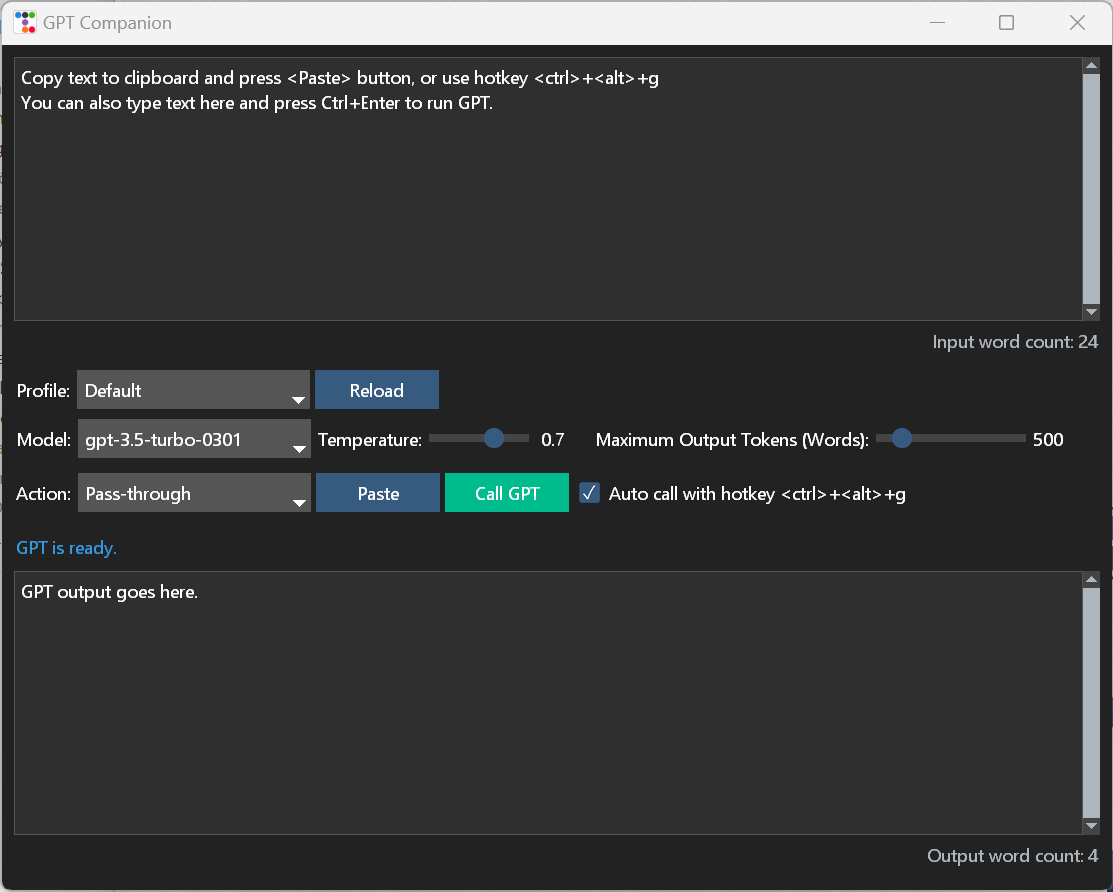
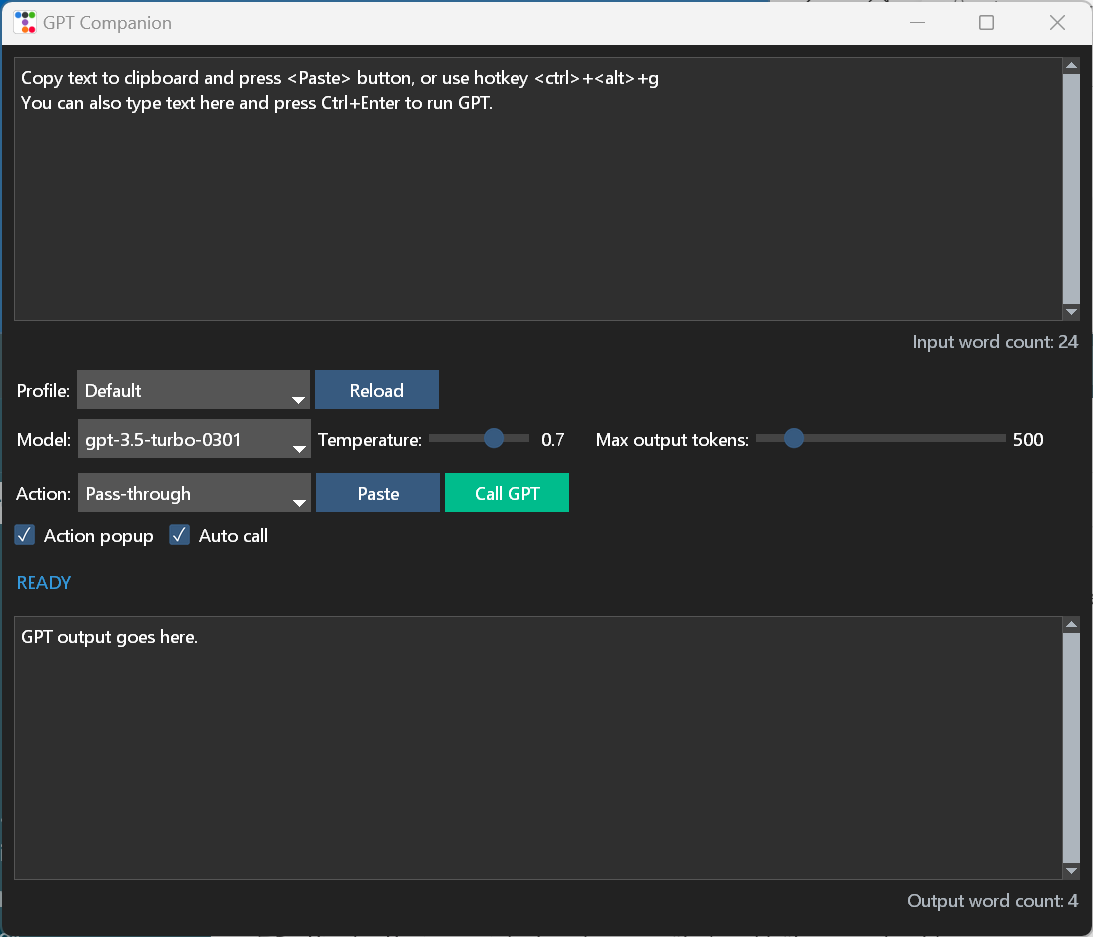
config reorganized, new: popup menu checkbox

diff --git a/main.py b/main.py
@@ -13,7 +13,7 @@ GPT_RUNNING = 'RUNNING'
 mouse_pos = ()
 
 
-def change_profile(e):
+def change_profile(unused):
     menu_actions.delete(0, len(config.action_choices()) + 1)
     config.select(cbb_profiles.get())
     build_action_menu(menu_actions)
@@ -21,6 +21,10 @@ def change_profile(e):
     cbb_models.set(config.all_models()[0])
     cbb_actions.configure(values=config.action_choices())
     v_action.set(config.action_first())
+    v_temperature.set(config.temperature())
+    v_autocall.set(config.autocall())
+    v_use_popup.set(config.action_popup())
+    v_max_tokens.set(config.max_tokens())
 
 
 def replace_text(widget, text):
@@ -144,8 +148,8 @@ def mouse_moved(x, y):
     mouse_pos = (int(x), int(y))
 
 
-def hotkey_pressed():
-    if config.action_popup():
+def action():
+    if v_use_popup.get():
         pop_action_menu()
     else:
         paste_and_complete()
@@ -165,13 +169,13 @@ def bind_keyboard_and_mouse():
 
     # Popups don't go well with pynput HotKey because they snatch all the key releases.
     # This messes up the internal state management of the HotKey instance. We help him by releasing the keys.
-    def activate():
-        for k in pk:
+    def action_menu():
+        for k in hotkey_parsed:
             release(k)
-        pop_action_menu()
+        action()
 
-    pk = pynput.keyboard.HotKey.parse(config.hotkey())
-    hotkey = pynput.keyboard.HotKey(pk, activate)
+    hotkey_parsed = pynput.keyboard.HotKey.parse(config.hotkey())
+    hotkey = pynput.keyboard.HotKey(hotkey_parsed, action_menu)
     klistener = pynput.keyboard.Listener(on_press=press, on_release=release)
     klistener.start()
 
@@ -193,7 +197,7 @@ def create_wordcount_label(parent, text):
 
 
 root = ttk.Window(themename='darkly')
-if config.startup()['on_top']:
+if config.on_top():
     root.attributes('-topmost', 1)
 root.title('GPT Companion')
 root.columnconfigure(0, weight=1)
@@ -250,16 +254,25 @@ v_action = tk.StringVar()
 cbb_actions = ttk.Combobox(actionbox, values=config.action_choices(), textvariable=v_action)
 cbb_actions.state(['readonly'])
 cbb_actions.set(config.action_first())
+# actionbox layout
+lbl_action.grid(row=0, column=0, sticky='w')
+cbb_actions.grid(row=0, column=1, sticky='e', padx=5, pady=5)
+btn_paste.grid(row=0, column=2)
+btn_gpt.grid(row=0, column=3, padx=5, pady=5)
+
+# option box
+optionbox = ttk.Frame(frame)
 # hotkey autocall option
 v_autocall = tk.IntVar()
 v_autocall.set(config.autocall())
-btn_autocall = ttk.Checkbutton(actionbox, variable=v_autocall, text='Auto call with hotkey ' + config.hotkey())
-# actionbox layout
-lbl_action.grid(row=0, column=0)
-cbb_actions.grid(row=0, column=1, sticky='ns', padx=5, pady=5)
-btn_paste.grid(row=0, column=2)
-btn_gpt.grid(row=0, column=3, padx=5, pady=5)
-btn_autocall.grid(row=0, column=4, padx=5)
+btn_autocall = ttk.Checkbutton(optionbox, variable=v_autocall, text='Auto call')
+# popup menu option
+v_use_popup = tk.IntVar()
+v_use_popup.set(config.action_popup())
+btn_use_popup = ttk.Checkbutton(optionbox, variable=v_use_popup, text='Action popup')
+#option box layout
+btn_use_popup.grid(row=0, column=0)
+btn_autocall.grid(row=0, column=1, padx=15)
 
 # Model parameters box
 modelbox = ttk.Frame(frame)
@@ -297,11 +310,12 @@ input_counter.grid(row=1, column=0, sticky='e', pady=(5, 10))
 profilebox.grid(row=2, column=0, sticky='w', pady=5)
 modelbox.grid(row=3, column=0, sticky='w', pady=5)
 actionbox.grid(row=4, column=0, sticky='w', pady=5)
+optionbox.grid(row=5, column=0, sticky='w')
 progress_gpt = ttk.Label(frame, bootstyle='info', text=GPT_READY)
-progress_gpt.grid(row=5, column=0, columnspan=3, sticky='w', pady=10)
-outputbox.grid(row=6, columnspan=3, sticky='ewns')
-frame.rowconfigure(6, weight=1)
-output_counter.grid(row=7, column=0, sticky='e', pady=(5, 10))
+progress_gpt.grid(row=6, column=0, columnspan=3, sticky='w', pady=20)
+outputbox.grid(row=7, columnspan=3, sticky='ewns')
+frame.rowconfigure(8, weight=1)
+output_counter.grid(row=8, column=0, sticky='e', pady=(5, 10))
 
 replace_text(txt_input, 'Copy text to clipboard and press <Paste> button, or use hotkey ' + config.hotkey()
              + '\nYou can also type text here and press Ctrl+Enter to run GPT.')

diff --git a/config.py b/config.py
@@ -24,16 +24,23 @@ def profile_choices():
     return [k for k in profiles.keys()]
 
 
+def get_with_fallback(section, prop):
+    if section in selected():
+        return selected()[section].get(prop, default_profile()[section][prop])
+    else:
+        return default_profile()[section][prop]
+
+
 def name():
     return selected()['settings']['name']
 
 
 def models():
-    return selected()['settings'].get('models', default_profile()['settings']['models'])
+    return get_with_fallback('settings', 'models')
 
 
 def chat_models():
-    return selected()['settings'].get('chat_models', default_profile()['settings']['chat_models'])
+    return get_with_fallback('settings', 'chat_models')
 
 
 def all_models():
@@ -41,7 +48,15 @@ def all_models():
 
 
 def chat_instruction():
-    return selected()['settings'].get('chat_instruction', default_profile()['settings']['chat_instruction'])
+    return get_with_fallback('settings', 'chat_instruction')
+
+
+def temperature():
+    return get_with_fallback('settings', 'temperature')
+
+
+def max_tokens():
+    return get_with_fallback('settings', 'max_tokens')
 
 
 def action_choices():
@@ -64,32 +79,24 @@ def startup():
     return default_profile()['startup']
 
 
-def hotkey():
-    return startup()['hotkey']
-
-
-def hotkey_wait():
-    return startup()['hotkey_wait']
-
-
-def copy_key():
-    return startup()['copy_key']
-
-
-def temperature():
-    return startup()['temperature']
+def action_popup():
+    return startup()['action_popup']
 
 
 def autocall():
     return startup()['autocall']
 
 
-def max_tokens():
-    return startup()['max_tokens']
+def on_top():
+    return startup()['on_top']
 
 
-def action_popup():
-    return startup()['action_popup']
+def hotkey():
+    return startup()['hotkey']
+
+
+def hotkey_wait():
+    return startup()['hotkey_wait']
 
 
 def validate_profile(p):

diff --git a/README.md b/README.md
@@ -11,14 +11,14 @@ Put your preferred GPT text processing actions (prompts) into profiles, which yo
 For example, you could have a profile for English, one for German, one for fun stuff, etc.
 An action did not work as expected? A new action comes to mind? Just edit the profile, press the _Reload_ button and run GPT again.
 
-With the hotkey it can display a popup menu with the actions at the
+Once the hotkey is pressed and *action popup* is switched on, it displays a menu at the
 mouse position in any application. The next image depicts a text selection in Wikipedia and
 the menu upon pressing the hotkey. Once an action is selected, the Companion makes the browser copy the selection
-into the clipboard, and then it fetches the clipboard content.
+into the clipboard, and then it fetches the clipboard content. If *Auto call* is switched on, it calls GPT immediately.
 
 <img alt="action popup" src="doc/popup.png" width="30%" height="30%"/>
 
-The app can be configured to stay on top of all windows.
+The Companion can be configured to stay on top of all windows.
 
 For working on text documents, the Companion is more convenient than using ChatGPT or OpenAI Playground
 where you'll have to copy&paste text snippets yourself and fiddle with the
